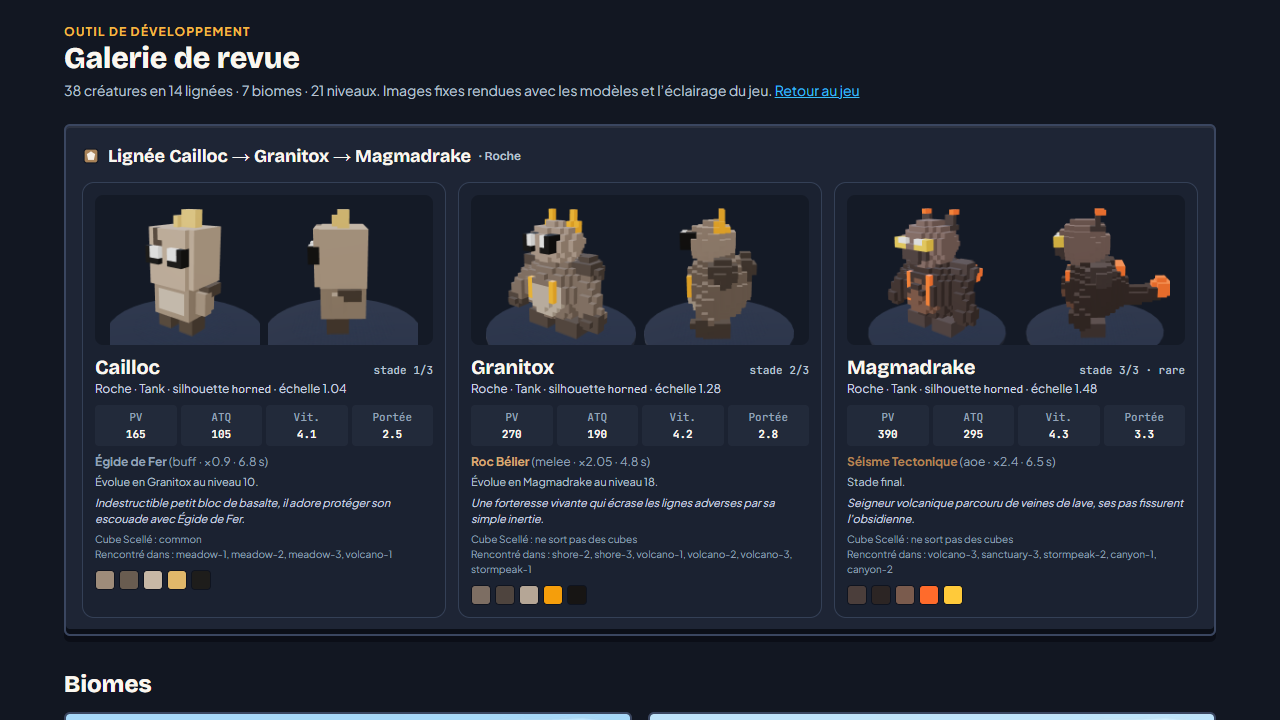
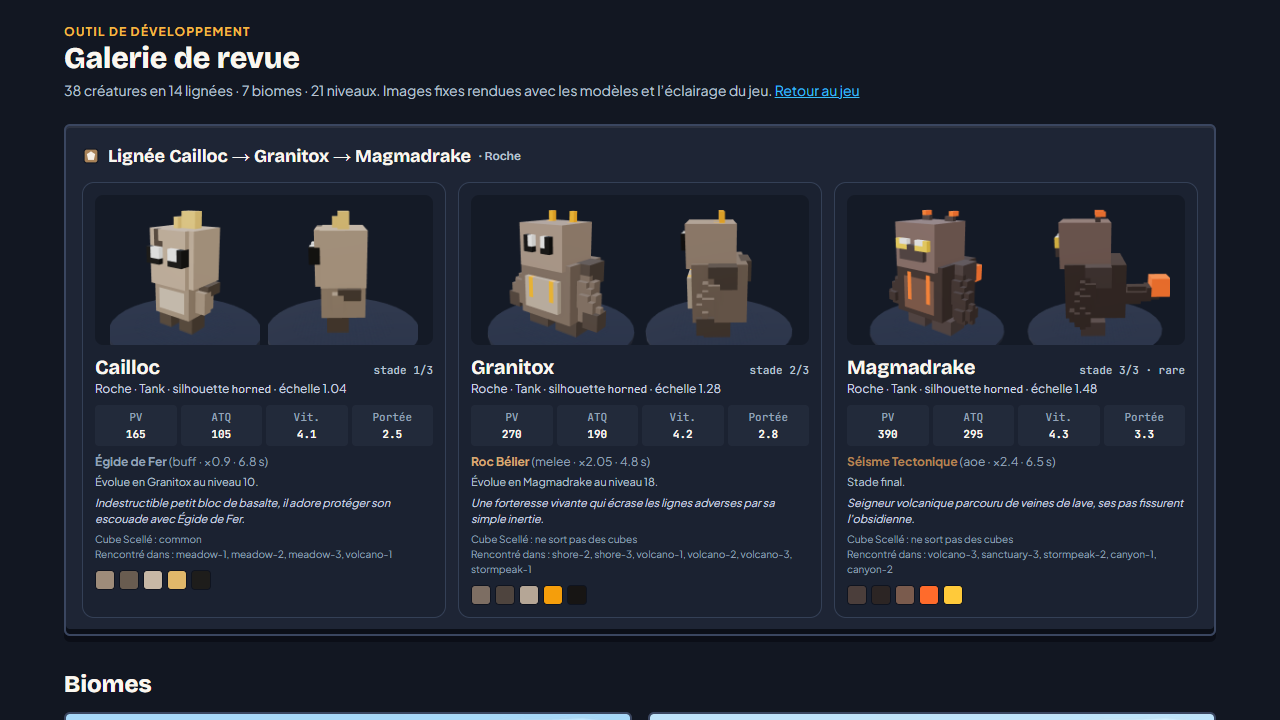
art2.3: formes evoluees en boites (plus de surface en escalier), couleurs ART2, tetes ajustees, cadrage a 70 % de la hauteur au moins (galerie, portraits, portrait qui tourne) ; choix anti-plagiat du sprint ART gardes

diff --git a/src/game/models/sculptDefs.ts b/src/game/models/sculptDefs.ts
@@ -53,7 +53,7 @@ const flambrix: SculptDef = {
     B([0, 0.58, 0], [0.38, 0.38, 0.35], 'primary'),
     B([0, 0.52, 0.24], [0.26, 0.26, 0.14], 'belly'),
     C([0.38, 0.74, 0.06], [0.52, 0.48, 0.16], 0.11, 'primary', 'body', true),
-    E([0.52, 0.44, 0.17], [0.1, 0.09, 0.1], 'secondary', 'body', true),
+    B([0.52, 0.44, 0.17], [0.085, 0.076, 0.085], 'secondary', 'body', true),
     // crête dorsale : trois pointes de braise
     K([0, 0.92, -0.28], [0.1, 0.22, 0.02], 'secondary'),
     K([0, 0.74, -0.38], [0.09, 0.2, 0.02], 'secondary'),
@@ -197,17 +197,17 @@ const cailloc: SculptDef = {
 const granitox: SculptDef = {
   ...LEGS,
   shapes: [
-    E([0, 0.62, 0], [0.5, 0.46, 0.44], 'primary'),
-    E([0, 0.56, 0.26], [0.3, 0.28, 0.18], 'belly'),
+    B([0, 0.62, 0], [0.425, 0.391, 0.374], 'primary'),
+    B([0, 0.56, 0.26], [0.255, 0.238, 0.153], 'belly'),
     // épaules de roc et fissures d'ambre
-    E([0.42, 0.88, -0.02], [0.2, 0.18, 0.2], 'secondary', 'body', true),
+    B([0.42, 0.88, -0.02], [0.17, 0.153, 0.17], 'secondary', 'body', true),
     B([0.16, 0.66, 0.42], [0.04, 0.16, 0.03], 'accent', 'body', true),
-    E([0, 0.86, -0.36], [0.24, 0.2, 0.12], 'secondary'),
-    E([0, 1.22, 0.1], [0.36, 0.26, 0.32], 'primary', 'head'),
+    B([0, 0.86, -0.36], [0.204, 0.17, 0.102], 'secondary'),
+    B([0, 1.22, 0.1], [0.33, 0.27, 0.3], 'primary', 'head'),
     K([0.2, 1.38, -0.02], [0.1, 0.26, 0.02], 'accent', 'crest', true),
     ...eyes(0.15, 1.24, 0.38),
     C([0.5, 0.7, 0.1], [0.64, 0.38, 0.18], 0.14, 'primary', 'body', true),
-    E([0.66, 0.32, 0.2], [0.14, 0.12, 0.14], 'secondary', 'body', true),
+    B([0.66, 0.32, 0.2], [0.119, 0.102, 0.119], 'secondary', 'body', true),
     B([0.24, 0.12, 0.04], [0.17, 0.12, 0.17], 'secondary', 'leg*', true),
   ],
 };
@@ -216,25 +216,28 @@ const magmadrake: SculptDef = {
   ...LEGS,
   extras: [{ group: 'tail', pivot: [0, 0.46, -0.4] }],
   shapes: [
-    E([0, 0.66, 0], [0.52, 0.46, 0.48], 'primary'),
-    E([0, 0.6, 0.28], [0.3, 0.28, 0.2], 'belly'),
+    B([0, 0.66, 0], [0.442, 0.391, 0.408], 'primary'),
+    B([0, 0.6, 0.28], [0.255, 0.238, 0.17], 'belly'),
     // veines de lave lumineuses
     B([0.2, 0.7, 0.4], [0.04, 0.2, 0.06], 'accent', 'body', true),
     B([0, 0.94, -0.36], [0.24, 0.05, 0.1], 'accent'),
-    E([0.42, 0.94, -0.06], [0.2, 0.16, 0.2], 'secondary', 'body', true),
-    E([0, 1.32, 0.16], [0.38, 0.32, 0.38], 'primary', 'head'),
-    E([0, 1.22, 0.46], [0.22, 0.12, 0.14], 'secondary', 'head'),
+    B([0.42, 0.94, -0.06], [0.17, 0.136, 0.17], 'secondary', 'body', true),
+    B([0, 1.32, 0.16], [0.34, 0.32, 0.34], 'primary', 'head'),
+    B([0, 1.22, 0.46], [0.187, 0.102, 0.119], 'secondary', 'head'),
     K([0.22, 1.5, -0.04], [0.1, 0.3, 0.02], 'secondary', 'crest', true),
     K([0.25, 1.72, -0.06], [0.06, 0.12, 0.01], 'accent', 'crest', true),
     ...eyes(0.17, 1.36, 0.46),
     C([0.5, 0.76, 0.1], [0.66, 0.42, 0.2], 0.14, 'primary', 'body', true),
     B([0.26, 0.12, 0.06], [0.17, 0.12, 0.18], 'secondary', 'leg*', true),
     C([0, 0.46, -0.4], [0, 0.56, -0.94], 0.13, 'primary', 'tail'),
-    E([0, 0.62, -1.02], [0.16, 0.16, 0.16], 'accent', 'tail'),
+    B([0, 0.62, -1.02], [0.136, 0.136, 0.136], 'accent', 'tail'),
   ],
 };
 
-/** Espèces refaites (les autres gardent leur ancien modèle jusqu'au second sprint). */
+/**
+ * Espèces refaites (les autres gardent leur ancien modèle jusqu'au second sprint).
+ * ART2 : les formes évoluées sont désormais faites de boîtes (plus de surface en escalier).
+ */
 export const SCULPT_DEFS: Record<string, SculptDef> = {
   pyrocube,
   flambrix,

diff --git a/src/game/galleryRenderer.ts b/src/game/galleryRenderer.ts
@@ -78,7 +78,8 @@ export function renderGalleryShots(speciesIds: string[], biomes: BiomeDef[]): Ga
     const bounds = new THREE.Box3().setFromObject(rig.bodyPivot);
     const size = bounds.getSize(new THREE.Vector3());
     const centerY = (bounds.min.y + bounds.max.y) / 2;
-    const dist = (Math.max(size.x, size.y, size.z) / 2 / Math.tan((15 * Math.PI) / 180)) * 1.22;
+    // ART2 : la créature remplit au moins 70 % de la hauteur de la vignette (largeur bornée à 90 %)
+    const dist = Math.max(size.y / 0.8, Math.max(size.x, size.z) / 0.9) / 2 / Math.tan((15 * Math.PI) / 180);
     pedestal.scale.set(species.scale, 1, species.scale);
     const views: [number, number][] = [
       [0.62, 0.78], // trois-quarts face

diff --git a/src/game/portraitStudio.ts b/src/game/portraitStudio.ts
@@ -92,7 +92,8 @@ function shoot(s: Studio, speciesId: string): string | null {
   const bounds = new THREE.Box3().setFromObject(framed);
   const size = bounds.getSize(new THREE.Vector3());
   const center = bounds.getCenter(new THREE.Vector3());
-  const dist = (Math.max(size.x, size.y, size.z) / 2 / Math.tan((14 * Math.PI) / 180)) * 1.12;
+  // ART2 : la créature remplit au moins 70 % de la hauteur du portrait (largeur bornée à 90 %)
+  const dist = Math.max(size.y / 0.8, Math.max(size.x, size.z) / 0.9) / 2 / Math.tan((14 * Math.PI) / 180);
   const dir = new THREE.Vector3(0.62, 0.3, 0.78).normalize();
   s.camera.position.copy(center).addScaledVector(dir, dist);
   s.camera.lookAt(center);

diff --git a/src/components/CreatureTurntable.tsx b/src/components/CreatureTurntable.tsx
@@ -71,7 +71,8 @@ export function CreatureTurntable({
     const bounds = new THREE.Box3().setFromObject(rig.bodyPivot);
     const center = bounds.getCenter(new THREE.Vector3());
     const s = bounds.getSize(new THREE.Vector3());
-    const dist = (Math.max(s.x, s.y, s.z) / 2 / Math.tan((14 * Math.PI) / 180)) * 1.15;
+    // ART2 : la créature remplit au moins 70 % de la hauteur du cadre (largeur bornée à 90 %)
+    const dist = Math.max(s.y / 0.8, Math.max(s.x, s.z) / 0.9) / 2 / Math.tan((14 * Math.PI) / 180);
     const camera = new THREE.PerspectiveCamera(28, 1, 0.1, 100);
     camera.position.set(center.x, center.y + dist * 0.28, center.z + dist);
     camera.lookAt(center);
